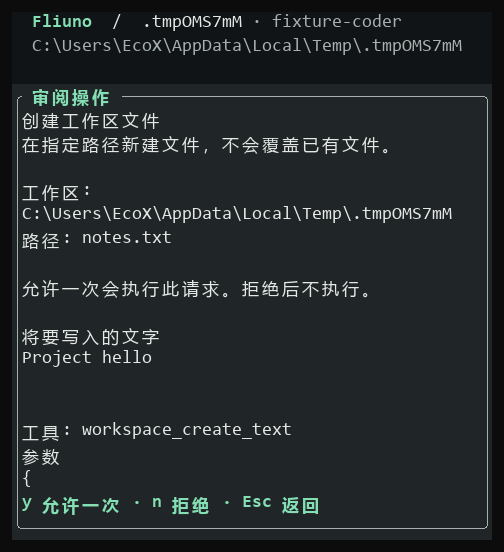
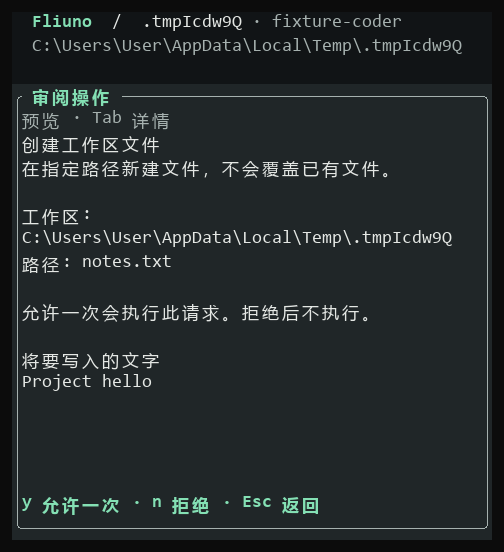
Document the approval preview and record narrow-terminal evidence

diff --git a/docs/execution-evidence.md b/docs/execution-evidence.md
@@ -46,6 +46,7 @@
 | Windows ConPTY 模型设置 | 两个档案共用一套托管凭据，另一个绑定回环无 Key 供应商。修订冲突保留外部改动，重载后可保存；保存后当前模型不变，显式选择后模拟服务核对模型 ID、凭据与思考强度，旧对话与模型标识可重开。核对 48、80、110 列的设置与摘要截图。[设置截图](assets/model-settings-v021.png) |
 | Windows 模型目录回归 | 独立 RPC 测试验证正确的供应商地址和认证、Anthropic 的 `after_id`、过期修订时不建立连接，以及凭据回显过滤。ConPTY 验证筛选并选中真实返回的 ID、翻页、目录不可用时手填回退，和保存后显式应用。目录页核对 48、80、110 列。[目录截图](assets/model-catalog-v021.png) |
 | Windows ConPTY 语言切换 | 验证英文与简体中文切换、重启后保留语言、中英文命令搜索、原始配置与草稿保留。用回环模型查询供应商目录，审批前确认文件不存在；审批后核对原样写入的 UTF-8 内容、改动回执与重开对话。人工检查 48、80、110 列的截图。[目录](assets/language-catalog-v021.png) · [审批](assets/language-approval-v021.png) |
+| Windows ConPTY 长审批 | 48 列预览检查预计写入的内容和固定按钮，翻页到底可见制表符与回车标记；查看参数后返回并缩放至 80 列，仍能找到末尾。拒绝后确认目标文件未创建。另检查 48 列中文审批和 110 列隔离检查画面。[参数页](assets/approval-details-v021.png) |
 
 复用离线项目验收（先构建带测试夹具的服务，且平台需支持配置中的隔离方式）：
 
@@ -54,6 +55,7 @@ cargo build --locked -p fliuno-app-server --features test-fixtures --bins
 cargo test --locked -p fliuno-tui --test workbench live_project_agent_delivers_inline_then_edits_and_runs_a_native_check -- --ignored
 cargo test --locked -p fliuno-tui --test workbench workbench_manages_shared_suppliers_and_applies_only_the_selected_model -- --ignored
 cargo test --locked -p fliuno-tui --test workbench workbench_keeps_language_draft_and_exact_project_review_at_terminal_widths -- --ignored
+cargo test --locked -p fliuno-tui --test workbench workbench_review_keeps_long_preview_and_tool_details_separate -- --ignored
 ```
 
 真实模型例程、已记录的失败样本与候选门槛见 [0.0.21 计划](plan-0.0.21.md#真实模型编码验收)。发布还需要同一候选提交通过 Windows/Linux 工程检查和 MSI / Debian 12 的安装、升级、启动与卸载。

diff --git a/README.md b/README.md
@@ -27,7 +27,7 @@
 
 ### 项目工作流预览 · 0.0.21 开发版
 
-在项目目录运行 `fliuno`，例如输入：「找到订单折扣的实现，修复边界值错误，运行已配置的检查，并告诉我改了哪个文件。」开发版可以从未知路径搜索源码、读取文件，并提交可审阅的小范围替换或补丁。写入前会停下来等你批准；需要运行项目检查时，先由你在宿主配置登记程序，再审阅实际命令和输入文件。
+在项目目录运行 `fliuno`，例如输入：「找到订单折扣的实现，修复边界值错误，运行已配置的检查，并告诉我改了哪个文件。」开发版可以从未知路径搜索源码、读取文件，并提交可审阅的小范围替换或补丁。写入前会停下来等你批准；审批先展示目标和改动，`Tab` 可查看工具参数。需要运行项目检查时，先由你在宿主配置登记程序，再审阅实际命令和输入文件。
 
 完成后用 `/changes` 查看本轮确认写入的文件、补丁和检查输出。仅需一段文字时可以直接在对话里交付；只有需要下载或写文件时，才走对应的交付流程。[项目工作流](docs/workbench.md#在项目目录里工作) · [如何配置检查](docs/setup.md#在隔离环境里运行项目检查0021)
 

diff --git a/docs/workbench.md b/docs/workbench.md
@@ -67,6 +67,7 @@ language = "zh-CN"
 
 1. **定位**：让 Agent 根据文件名或源码字面内容查找相关路径，然后读文件。简单问答直接在对话完成。
 2. **审批**：先核对工作区、相对路径、修改前后的内容或补丁。一处精确替换要求原文唯一，并且文件仍是读取时的版本。拒绝不会写入；遇到版本冲突可重读后提交新提案。
+   长预览会显示当前可见行范围。用 `↑` / `↓` 滚动，`PageUp` / `PageDown` 翻页，`Home` / `End` 跳到首尾。按 `Tab` 切换[预览与工具参数](assets/approval-details-v021.png)，返回时保留阅读位置；这不会批准或拒绝操作。
 3. **检查**：先在用户侧[登记项目检查](setup.md#在隔离环境里运行项目检查0021)。批准前可看到程序、实际参数和输入文件。检查程序在私有目录里运行；输出与退出状态会写进本轮记录。
 4. **复核**：按 `d` 或在输入框键入 `/changes` 后按 `Tab`，查看本轮确认写入的文件、未应用的提案和检查输出。完整工作区变化仍可用 `git diff` 查看。托管交付物可预览与另存，项目文件则以实际写入路径为准。
 

diff --git a/CHANGELOG.md b/CHANGELOG.md
@@ -10,6 +10,7 @@
 
 ### 工作台与模型
 
+- 审批先显示目标、影响和文件预览，`Tab` 可切换到工具参数。长内容显示可见行范围，支持翻页及跳到首尾，来回切换保留各页位置；允许和拒绝按钮固定在底部。
 - 新增 `/language` 和 F1 双语入口。可在英文与简体中文之间即时切换，保留当前草稿；正常模式下 `[workbench].language` 随本机配置保存。首批覆盖项目主屏、命令、供应商设置及模型目录、内置操作审阅和改动回执；模型回复、补丁与命令输出保留原文。
 - 对话显示工作区与项目进度。`/changes` 把提案失败、实际写入和已执行的检查分开显示；`/permissions` 查看并撤销本会话的限时精确读取授权。
 - 新增 `/settings`：可新增、编辑命名供应商，让多个模型档案共用 Base URL 和凭据。模型档案独立选择协议、模型 ID 和思考强度；回环连接可用无 Key 的 `openai.compatible`。
